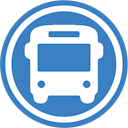
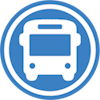
par izboljšav

diff --git a/src/tabs/stations.jsx b/src/tabs/stations.jsx
@@ -147,23 +147,29 @@ const StationsTab = ({ userLocation, setActiveStation, busStops, szStops }) => {
                             <Bus size={24} />
                         )}
                         <h3>{station?.name}</h3>
-                        {station?.vCenter && (
-                            <span
-                                style={{
-                                    fontSize: "11px",
-                                    backgroundColor: "darkgreen",
-                                    color: "var(--text-color)",
-                                    padding: "2px 6px",
-                                    borderRadius: "4px",
-                                    height: "fit-content",
-                                    marginTop: "auto",
-                                    marginBottom: "auto",
-                                    textWrap: "nowrap",
-                                }}
-                            >
-                                V center
-                            </span>
-                        )}
+                        {station?.vCenter !== null &&
+                            station?.type !== "sz" && (
+                                <span
+                                    style={{
+                                        fontSize: "11px",
+                                        backgroundColor:
+                                            station?.vCenter === true
+                                                ? "darkgreen"
+                                                : "#BA8E23",
+                                        color: "var(--text-color)",
+                                        padding: "2px 6px",
+                                        borderRadius: "4px",
+                                        height: "fit-content",
+                                        marginTop: "auto",
+                                        marginBottom: "auto",
+                                        textWrap: "nowrap",
+                                    }}
+                                >
+                                    {station?.vCenter === true
+                                        ? "V center"
+                                        : "Iz centra"}
+                                </span>
+                            )}
                     </div>
                     <ul className="station-info">
                         {station?.routes_on_stop

diff --git a/src/tabs/map/config.js b/src/tabs/map/config.js
@@ -4,11 +4,10 @@ import nomagoPNG from "../../img/nomago.png";
 import marpromPNG from "../../img/marprom.png";
 import murskaPNG from "../../img/murska.png";
 import userPNG from "../../img/user.png";
-import busStopPNG from "../../img/busStop.png";
+import busStopPNG from "../../img/routeStop2.png";
 import trainStopPNG from "../../img/trainStop.png";
 import szPNG from "../../img/sz.png";
 import locationPNG from "../../img/location.png";
-import routeStop from "../../img/routeStop2.png";
 
 export const DEFAULT_CENTER = [46.0569, 14.5058];
 export const DEFAULT_ZOOM = 13;
@@ -64,12 +63,11 @@ export const ICON_SOURCES = [
     { id: "murska", image: murskaPNG },
     { id: "bus-generic", image: locationPNG },
     { id: "train-generic", image: locationPNG },
-    { id: "route-stop", image: routeStop },
 ];
 
 export const CLUSTER_CONFIG = {
-    buses: { radius: 80, maxZoom: 15, color: "#4CAF50" },
-    busStops: { radius: 70, maxZoom: 14, color: "#7E57C2" },
+    buses: { radius: 50, maxZoom: 14, color: "#4CAF50" },
+    busStops: { radius: 60, maxZoom: 14, color: "#7E57C2" },
     trainPositions: { radius: 90, maxZoom: 14, color: "#0091EA" },
     trainStops: { radius: 70, maxZoom: 14, color: "#FF7043" },
 };

diff --git a/src/Api.jsx b/src/Api.jsx
@@ -188,7 +188,7 @@ const fetchAllBusStops = async () => {
                 const gpsLocation = Array.isArray(stop.gpsLocation)
                     ? stop.gpsLocation
                     : [latitude, longitude];
-                const vCenter = stop.ref_id % 2 === 1;
+                const vCenter = stop.ref_id % 2 === 1 ? true : false;
                 if (
                     !Number.isFinite(gpsLocation?.[0]) ||
                     !Number.isFinite(gpsLocation?.[1])
@@ -212,7 +212,7 @@ const fetchAllBusStops = async () => {
                     ref_id: refId,
                     ijpp_id: ijppId,
                     routes_on_stop: routesOnStop,
-                    vCenter: vCenter,
+                    vCenter: refId ? vCenter : null
                 };
             })
             .filter(Boolean);

diff --git a/src/App.css b/src/App.css
@@ -685,6 +685,7 @@ body {
                     align-self: center;
                     gap: 12px;
                     margin: 0;
+                    color: var(--text-color);
 
                     button {
                         width: 42px;
